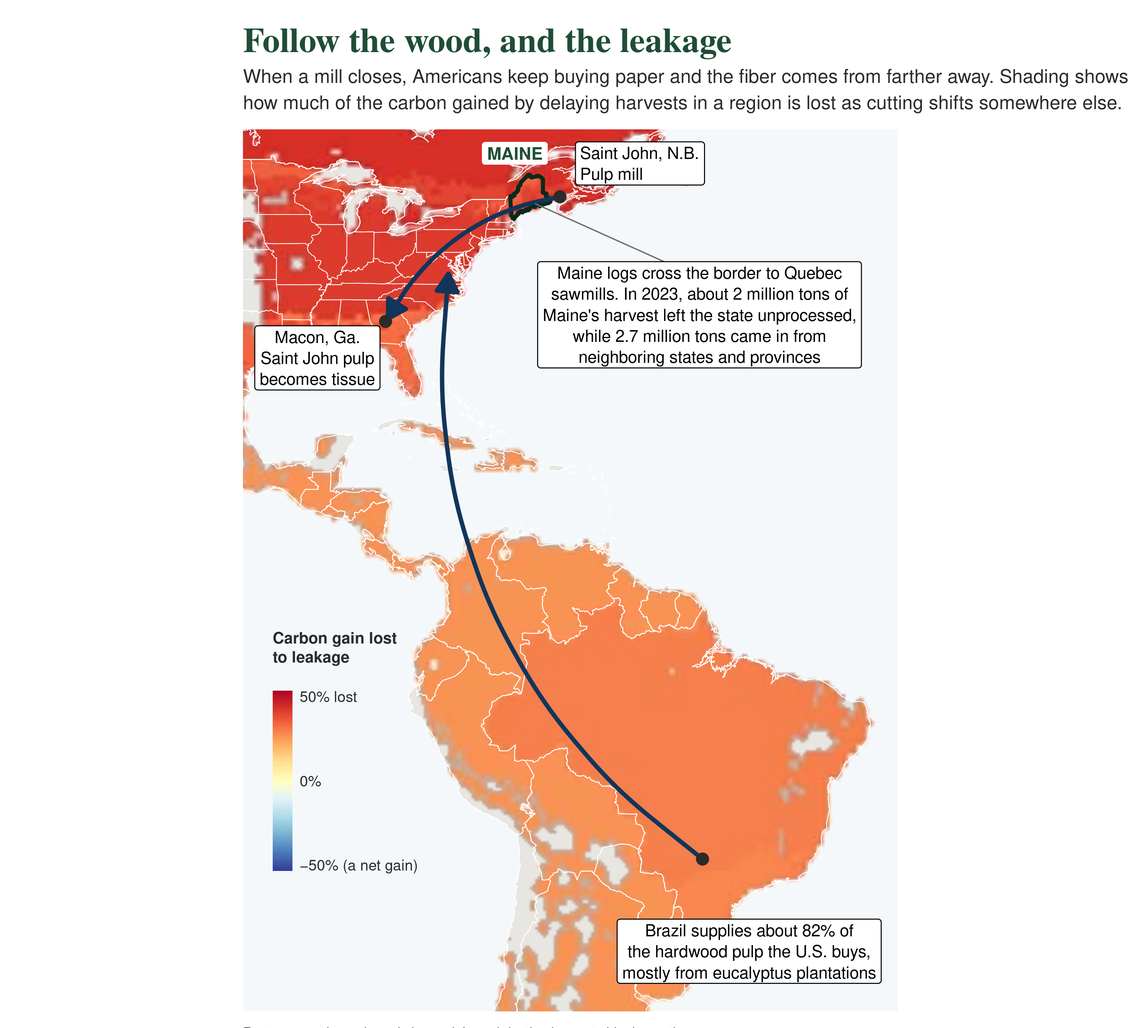
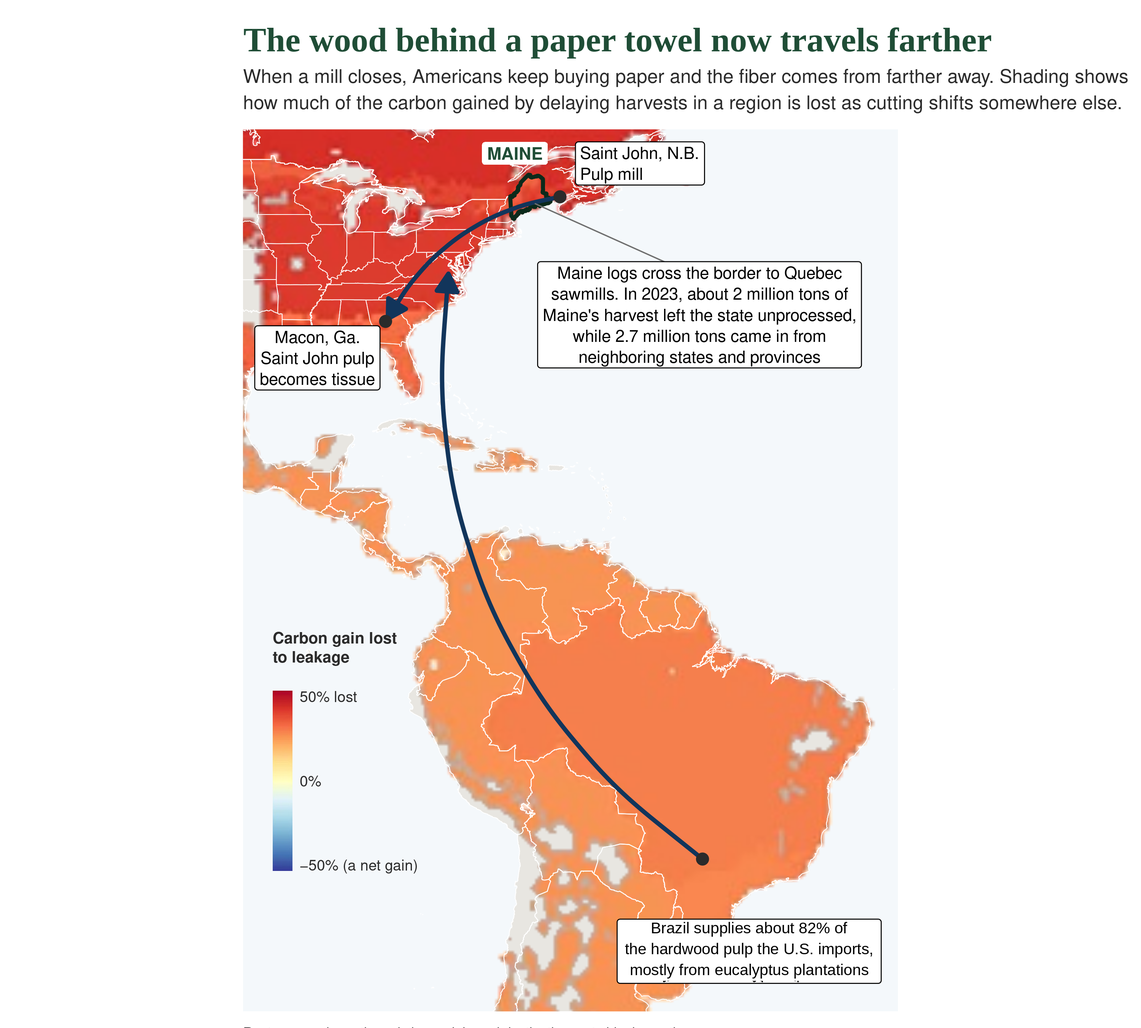
Graphics pass: world and U.S. export map rebuilt, headlines state findings, mill map decluttered
Claude-Session: https://claude.ai/code/session_013WsDVoeaXCGmdbNt2QvfhH

Changed region(s): [[0.217, 0.0311, 0.868, 0.0622], [0.558, 0.9012, 0.775, 0.9634]]

diff --git a/wood-travels/2026-11-11_maine-wood-exports-world-and-us-map_DRAFT.py b/wood-travels/2026-11-11_maine-wood-exports-world-and-us-map_DRAFT.py
@@ -1,0 +1,185 @@
+# Where Maine's wood goes: exports by country (2024) with an inset of net shipments to U.S. states (2022).
+# Rebuilt November 11, 2026, so the whole Southern Hemisphere shows and the U.S. inset sits on the same bubble scale.
+# Inputs (same folder):
+#   2024_maine-wood-exports-by-country_DATA.csv        U.S. Census Bureau, USA Trade Online, HS 44, 47, 48, origin Maine
+#   2022_maine-net-shipments-to-states-cfs_DATA.csv    2022 Commodity Flow Survey, SCTG 25 to 28, with coefficients of variation
+# Usage: python3 <script> <node_modules dir with world-atlas and us-atlas> <out.png>
+import csv, json, sys, math, os
+import numpy as np
+import matplotlib
+matplotlib.use("Agg")
+import matplotlib.pyplot as plt
+from matplotlib.patches import PathPatch, Circle
+from matplotlib.path import Path
+import matplotlib.patheffects as pe
+
+HERE = os.path.dirname(os.path.abspath(__file__))
+ATLAS, OUT = sys.argv[1], sys.argv[2]
+plt.rcParams["font.family"] = "Liberation Sans"
+GRN, NAV, ORG = "#1F4D36", "#2F6C9E", "#D9692E"
+LAND, SEA, INK, GRY = "#E8E6E1", "#FFFFFF", "#2B2B2B", "#6E6E6E"
+halo = [pe.withStroke(linewidth=2.6, foreground="white")]
+
+
+def topo(path, obj):
+    t = json.load(open(path))
+    sc, tr = t["transform"]["scale"], t["transform"]["translate"]
+    arcs = []
+    for a in t["arcs"]:
+        pts = np.cumsum(np.array(a, dtype=float), axis=0)
+        arcs.append(np.column_stack([pts[:, 0] * sc[0] + tr[0], pts[:, 1] * sc[1] + tr[1]]))
+    def ring(idx):
+        out = []
+        for i in idx:
+            seg = arcs[i] if i >= 0 else arcs[~i][::-1]
+            out.append(seg if not out else seg[1:])
+        return np.vstack(out)
+    res = {}
+    for g in t["objects"][obj]["geometries"]:
+        if g.get("type") is None:
+            continue
+        polys = g["arcs"] if g["type"] == "MultiPolygon" else [g["arcs"]]
+        res[g["properties"]["name"]] = [ring(r) for p in polys for r in p]
+    return res
+
+
+def centroid(rings):
+    """Area-weighted centroid of the largest ring, in lon/lat."""
+    best, ba = None, -1
+    for r in rings:
+        x, y = r[:, 0], r[:, 1]
+        a = 0.5 * np.sum(x[:-1] * y[1:] - x[1:] * y[:-1])
+        if abs(a) > ba and abs(a) > 0:
+            cx = np.sum((x[:-1] + x[1:]) * (x[:-1] * y[1:] - x[1:] * y[:-1])) / (6 * a)
+            cy = np.sum((y[:-1] + y[1:]) * (x[:-1] * y[1:] - x[1:] * y[:-1])) / (6 * a)
+            best, ba = (cx, cy), abs(a)
+    return best
+
+
+def equal_earth(lon, lat):
+    A1, A2, A3, A4 = 1.340264, -0.081106, 0.000893, 0.003796
+    th = np.arcsin(math.sqrt(3) / 2 * np.sin(np.radians(lat)))
+    x = 2 * math.sqrt(3) * np.radians(lon) * np.cos(th) / (3 * (9 * A4 * th**8 + 7 * A3 * th**6 + 3 * A2 * th**2 + A1))
+    y = A4 * th**9 + A3 * th**7 + A2 * th**3 + A1 * th
+    return x, y
+
+
+def albers(lon, lat, lat1=29.5, lat2=45.5, lat0=37.5, lon0=-96.0):
+    p1, p2, p0 = map(math.radians, (lat1, lat2, lat0))
+    n = (math.sin(p1) + math.sin(p2)) / 2
+    C = math.cos(p1) ** 2 + 2 * n * math.sin(p1)
+    rho0 = math.sqrt(C - 2 * n * math.sin(p0)) / n
+    rho = np.sqrt(C - 2 * n * np.sin(np.radians(lat))) / n
+    th = n * np.radians(lon - lon0)
+    return rho * np.sin(th), rho0 - rho * np.cos(th)
+
+
+def add_poly(ax, rings, proj, **kw):
+    verts, codes = [], []
+    for r in rings:
+        lon = r[:, 0].copy()
+        if lon.max() - lon.min() > 300:          # ring crosses the antimeridian: keep it on the eastern edge
+            lon[lon < 0] = 180.0
+        x, y = proj(lon, r[:, 1])
+        verts += list(zip(x, y))
+        codes += [Path.MOVETO] + [Path.LINETO] * (len(r) - 2) + [Path.CLOSEPOLY]
+    ax.add_patch(PathPatch(Path(verts, codes), **kw))
+
+
+K = 13 / math.sqrt(385.3)                      # bubble radius in points per sqrt($M); Canada is 13 pt
+def rad(v):
+    return K * math.sqrt(max(v, 0.05))
+def usd(v):
+    return f"\\${v / 1000:.1f}B" if v >= 1000 else f"\\${v:.0f}M"
+
+
+world = topo(f"{ATLAS}/world-atlas/countries-110m.json", "countries")
+states = topo(f"{ATLAS}/us-atlas/states-10m.json", "states")
+exp = [(r["country"], float(r["value_usd"]) / 1e6) for r in csv.DictReader(open(os.path.join(HERE, "2024_maine-wood-exports-by-country_DATA.csv")))]
+cfs = list(csv.DictReader(open(os.path.join(HERE, "2022_maine-net-shipments-to-states-cfs_DATA.csv"))))
+total_exp = 385.287058 / 0.6673                # total exports, from Canada's value and share in the source file
+net_pos = sum(float(r["net_musd"]) for r in cfs if float(r["net_musd"]) > 0)
+
+alias = {"Dominican Republic": "Dominican Rep.", "Korea, South": "South Korea"}
+fixed = {"Hong Kong": (114.17, 22.3), "Singapore": (103.8, 1.35), "Seychelles": (55.5, -4.7), "Canada": (-79.0, 53.0),
+         "Indonesia": (113.0, -1.0), "Chile": (-71.0, -33.0)}
+MAINE = (-69.2, 45.3)
+
+fig = plt.figure(figsize=(10, 8.6), dpi=300)
+fig.patch.set_facecolor("white")
+fig.text(0.04, 0.955, "Maine's wood mostly stays in the U.S., and most exports go to Canada", fontfamily="Liberation Serif",
+         fontweight="bold", fontsize=19.5, color=GRN, ha="left", va="center")
+fig.text(0.04, 0.917, f"Other states took at least {usd(net_pos)} more of Maine's wood, pulp, and paper than they sent back in 2022. "
+         f"Exports abroad were {usd(total_exp)} in 2024,\nand Canada took 67% of them. Circle area is the dollar value on one scale for both maps.",
+         fontsize=10.2, color=INK, ha="left", va="center", linespacing=1.3)
+
+# ---- world map ----
+ax = fig.add_axes([0.02, 0.36, 0.96, 0.52])
+ax.set_axis_off(); ax.set_aspect("equal")
+for name, rings in world.items():
+    if name == "Antarctica":
+        continue
+    add_poly(ax, rings, equal_earth, facecolor="#BFD3E3" if name == "United States of America" else LAND, edgecolor="white", linewidth=0.35, zorder=1)
+x0, _ = equal_earth(np.array([-170.0]), np.array([0.0])); x1, _ = equal_earth(np.array([180.0]), np.array([0.0]))
+_, y0 = equal_earth(np.array([0.0]), np.array([-58.0])); _, y1 = equal_earth(np.array([0.0]), np.array([80.0]))
+ax.set_xlim(x0[0], x1[0]); ax.set_ylim(y0[0], y1[0])
+mx, my = equal_earth(np.array([MAINE[0]]), np.array([MAINE[1]]))
+pts = []
+for c, v in exp:
+    lon, lat = fixed.get(c) or centroid(world[alias.get(c, c)])
+    x, y = equal_earth(np.array([lon]), np.array([lat]))
+    pts.append((c, v, x[0], y[0]))
+lab = {"Canada": (-16, 12, "right"), "China": (9, -9, "left"), "Belgium": (-7, 9, "right"), "Italy": (8, -8, "left"),
+       "Germany": (7, 9, "left"), "Mexico": (-8, -2, "right"), "Costa Rica": (-6, -6, "right"), "Brazil": (6, -5, "left"),
+       "Colombia": (6, 0, "left"), "Dominican Republic": (7, 5, "left"), "Uzbekistan": (0, 8, "center"), "Indonesia": (0, -9, "center")}
+for c, v, x, y in sorted(pts, key=lambda p: -p[1]):
+    if c in lab:
+        ax.plot([mx[0], x], [my[0], y], color=ORG, lw=0.5 + 2.2 * math.sqrt(v / 385.3), alpha=0.35, zorder=2, solid_capstyle="round")
+    ax.scatter([x], [y], s=(2 * rad(v)) ** 2, c=ORG, edgecolors="white", linewidths=0.6, zorder=3, alpha=0.93)
+    if c in lab:
+        dx, dy, ha = lab[c]
+        ax.annotate(f"{c} {usd(v)}", (x, y), xytext=(dx, dy), textcoords="offset points", ha=ha, va="center", fontsize=8.8, fontweight="bold", color=INK, path_effects=halo, zorder=5)
+ax.scatter(mx, my, s=42, c=GRN, edgecolors="white", linewidths=1.0, zorder=6)
+ax.text(mx[0] + 0.08, my[0] - 0.02, "MAINE", ha="left", va="center", fontsize=9.2, fontweight="bold", color=GRN, path_effects=halo, zorder=6)
+ax.text(0.0, 0.30, "EXPORTS BY COUNTRY, 2024", transform=ax.transAxes, ha="left", va="bottom", fontsize=9.6, fontweight="bold", color=INK)
+
+# ---- U.S. inset ----
+bx = fig.add_axes([0.03, 0.035, 0.56, 0.315])
+bx.set_axis_off(); bx.set_aspect("equal")
+skip = {"Alaska", "Hawaii", "Puerto Rico", "Guam", "American Samoa", "United States Virgin Islands", "Commonwealth of the Northern Mariana Islands"}
+for name, rings in states.items():
+    if name in skip:
+        continue
+    add_poly(bx, rings, albers, facecolor="#BFD3E3" if name == "Maine" else LAND, edgecolor="white", linewidth=0.45, zorder=1)
+bx.set_xlim(-0.40, 0.42); bx.set_ylim(-0.235, 0.25)
+slab = {"New York": (-4, 22, "right"), "Indiana": (-10, -12, "right"), "North Carolina": (11, -9, "left"),
+        "Wisconsin": (-12, 9, "right"), "Georgia": (9, -9, "left"), "Texas": (0, -11, "center"), "New Hampshire": (14, 10, "left"), "Massachusetts": (13, -3, "left")}
+for r in sorted(cfs, key=lambda r: -abs(float(r["net_musd"]))):
+    net, low = float(r["net_musd"]), r["low_confidence"] == "TRUE"
+    lon, lat = centroid(states[r["state"]])
+    x, y = albers(np.array([lon]), np.array([lat]))
+    col = ORG if net > 0 else NAV
+    bx.scatter(x, y, s=(2 * rad(abs(net))) ** 2, facecolors="white" if low else col, edgecolors=col, linewidths=1.5 if low else 0.6, zorder=3, alpha=0.93)
+    if r["state"] in slab:
+        dx, dy, ha = slab[r["state"]]
+        txt = f"{r['state']} {usd(net)}" if net > 0 else f"{r['state']} sends Maine {usd(-net)} more"
+        bx.annotate(txt, (x[0], y[0]), xytext=(dx, dy), textcoords="offset points", ha=ha, va="center", fontsize=8.4, fontweight="bold", color=INK, path_effects=halo, zorder=5)
+fig.text(0.04, 0.345, "NET SHIPMENTS TO OTHER STATES, 2022", ha="left", va="center", fontsize=9.6, fontweight="bold", color=INK)
+
+# ---- key and notes ----
+kx = fig.add_axes([0.60, 0.035, 0.38, 0.315]); kx.set_axis_off(); kx.set_xlim(0, 1); kx.set_ylim(0, 1)
+kx.text(0.0, 0.93, "HOW TO READ IT", fontsize=9.6, fontweight="bold", color=INK, va="center")
+xs = [0.07, 0.22, 0.44, 0.76]
+for xk, v in zip(xs, (5, 50, 385, 1265)):
+    kx.scatter([xk], [0.70], s=(2 * rad(v)) ** 2, c=ORG, edgecolors="white", linewidths=0.6, clip_on=False)
+    kx.text(xk, 0.47, usd(v), ha="center", va="center", fontsize=9.2, fontweight="bold", color=INK)
+notes = [(ORG, True, "takes more from Maine than it sends"), (NAV, True, "sends Maine more than it takes"),
+         (ORG, False, "open circle: survey uncertainty above 30%")]
+for i, (col, filled, t) in enumerate(notes):
+    yk = 0.30 - 0.075 * i
+    kx.scatter([0.03], [yk], s=42, facecolors=col if filled else "white", edgecolors=col, linewidths=1.4, clip_on=False)
+    kx.text(0.075, yk, t, fontsize=8.8, color=INK, va="center")
+kx.text(0.0, -0.02, "State figures are floors because the survey\nwithholds some cells.", fontsize=8.4, color=GRY, va="bottom", linespacing=1.25)
+
+fig.savefig(OUT, dpi=300, facecolor="white")
+print("saved", OUT, round(net_pos), round(total_exp))

diff --git a/wood-travels/2026-11-10_maine-mill-towns-quebec-mills-map_DRAFT.py b/wood-travels/2026-11-10_maine-mill-towns-quebec-mills-map_DRAFT.py
@@ -80,7 +80,7 @@ for gid, rings in canada + states:
     if pt is not None:
         ax.add_patch(pt)
 forest = np.asarray(Image.open(os.path.join(HERE, "2020_cec-land-cover-forest-layer_DATA.png")).convert("RGBA")) / 255.0
-ax.imshow(forest, extent=(X0, X1, Y0, Y1), zorder=2, interpolation="bilinear", aspect="auto")
+ax.imshow(forest, extent=(X0, X1, Y0, Y1), zorder=2, interpolation="bilinear", aspect="auto", alpha=0.62)
 for gid, rings in canada + states:
     pt = patch(rings, facecolor="none", edgecolor="white", linewidth=0.7, zorder=3)
     if pt is not None:
@@ -113,8 +113,8 @@ for nm, pts in rd.items():
     pts.sort()
     ax.plot([p[2] for p in pts], [p[3] for p in pts], color="white", lw=3.6, zorder=5, solid_capstyle="round")
     ax.plot([p[2] for p in pts], [p[3] for p in pts], color=GOLD, lw=2.0, zorder=5.1, solid_capstyle="round")
-ax.text(-69.72, 45.80, "Golden Road", ha="center", va="center", fontsize=7.8, color="#7A5A00", fontstyle="italic", fontweight="bold", rotation=-6, path_effects=halo, zorder=9)
-ax.text(-68.22, 45.11, "Stud Mill Road", ha="center", va="center", fontsize=7.8, color="#7A5A00", fontstyle="italic", fontweight="bold", path_effects=halo, zorder=9)
+ax.text(-69.72, 45.80, "Golden Road", ha="center", va="center", fontsize=8.8, color="#7A5A00", fontstyle="italic", fontweight="bold", rotation=-6, path_effects=halo, zorder=9)
+ax.text(-68.22, 45.11, "Stud Mill Road", ha="center", va="center", fontsize=8.8, color="#7A5A00", fontstyle="italic", fontweight="bold", path_effects=halo, zorder=9)
 
 # Logs cross to Quebec sawmills and lumber comes back to U.S. buyers (schematic)
 from matplotlib.patches import FancyArrowPatch
@@ -124,15 +124,16 @@ from matplotlib.patches import FancyArrowPatch
 # Earlier note: arrow width followed the Maine Forest Service 2023 Wood Processor Report: 2.0 million green tons of Maine wood left the state
 # unprocessed and 2.7 million green tons came in from other states and provinces. Statistics Canada adds about 0.8 million tons
 # of lumber, pulp, and paper sent from Canada to Maine (2023_maine-canada-wood-trade-statcan_DATA.csv), named in the label only.
-for (x0, y0, x1, y1, rad, txt, tx, ty, mt) in ((-69.05, 46.86, -69.98, 46.86, 0.12, "Out of Maine\n2.0 million tons raw wood\n0.2 million tons products", -69.28, 47.07, 2.2),
-                                              (-70.10, 46.50, -69.20, 46.50, 0.12, "Into Maine\n2.7 million tons raw wood\n0.8 million tons products", -70.00, 46.23, 3.5)):
+for (x0, y0, x1, y1, rad, txt, tx, ty, mt) in ((-69.05, 46.86, -69.98, 46.86, 0.12, "out", -69.30, 47.01, 2.2),
+                                              (-70.10, 46.50, -69.20, 46.50, 0.12, "in", -69.75, 46.33, 3.5)):
     lw = 1.5 * mt
     ax.add_patch(FancyArrowPatch((x0, y0), (x1, y1), connectionstyle=f"arc3,rad={rad}", arrowstyle="-|>", mutation_scale=8 + 4 * mt, lw=lw + 2.0, color="white", zorder=6.4))
     ax.add_patch(FancyArrowPatch((x0, y0), (x1, y1), connectionstyle=f"arc3,rad={rad}", arrowstyle="-|>", mutation_scale=6 + 4 * mt, lw=lw, color=BRN, zorder=6.5))
-    ax.text(tx, ty, txt, ha="left", va="center", fontsize=7.6, color=BRN, fontweight="bold", linespacing=1.1, path_effects=halo, zorder=9)
-# Canada's public investment note
-ax.text(-73.3, 46.47, "Canada has committed more than\nC$2 billion to its forest sector since\nAugust 2025 and added C$400 million\nmore in June 2026", ha="left", va="center",
-        fontsize=8.2, color=INK, linespacing=1.2, zorder=9, bbox=dict(boxstyle="round,pad=0.35", fc="white", ec=INK, lw=0.6))
+    ax.text(tx, ty, txt, ha="center", va="center", fontsize=9.2, color=BRN, fontweight="bold", path_effects=halo, zorder=9)
+ax.text(-73.3, 46.66, "Wood across Maine's borders, 2023", ha="left", va="center", fontsize=9.2, color=BRN, fontweight="bold", path_effects=halo, zorder=9)
+ax.text(-73.3, 46.38, "Out: 2.0 million tons raw wood (all neighbors)\n        0.2 million tons products (to Canada)\nIn:   2.7 million tons raw wood (all neighbors)\n        0.8 million tons products (from Canada)",
+        ha="left", va="center", fontsize=8.8, color=BRN, linespacing=1.3, path_effects=halo, zorder=9)
+# Canada's funding note moved to the caption on November 11, 2026
 
 # Maine and New Brunswick sawmills from public directories (town-level placement, not sized)
 PUR = "#7B4BA3"
@@ -149,7 +150,7 @@ ax.scatter([float(r["longitude"]) for r in known], [float(r["latitude"]) for r i
 closed = [  # town label, lon, lat, label lon, label lat
     ("Millinocket\nclosed 2008; biofuel\nplant planned", -68.710, 45.657, -69.92, 45.37),
     ("East Millinocket\nclosed 2014", -68.574, 45.627, -68.03, 46.19),
-    ("Bucksport\nclosed 2014", -68.795, 44.574, -68.47, 43.93),
+    ("Bucksport\nclosed 2014", -68.795, 44.574, -68.64, 43.94),
     ("Lincoln\nclosed 2015", -68.505, 45.362, -66.42, 45.80),
     ("Old Town\nclosed 2015, reopened,\nclosed again 2023", -68.645, 44.934, -66.72, 44.42),
     ("Madison\nclosed 2016; TimberHP now\nmakes insulation there", -69.880, 44.798, -72.47, 44.83),
@@ -174,7 +175,7 @@ box = dict(boxstyle="round,pad=0.32,rounding_size=0.18", fc="white", ec=INK, lw=
 
 
 def label(txt, x, y, lx, ly):
-    ax.annotate(txt, xy=(x, y), xytext=(lx, ly), ha="center", va="center", fontsize=8.6, color=INK, linespacing=1.12,
+    ax.annotate(txt, xy=(x, y), xytext=(lx, ly), ha="center", va="center", fontsize=9.2, color=INK, linespacing=1.12,
                 bbox=box, zorder=9, arrowprops=dict(arrowstyle="-", color=GRY, lw=0.9, shrinkA=0, shrinkB=5))
 
 
@@ -190,33 +191,32 @@ ax.scatter([p[2] for p in pulp], [p[3] for p in pulp], marker="s", s=120, c=ORG,
 ax.scatter([p[2] for p in paper], [p[3] for p in paper], marker="s", s=120, c=ORG, edgecolors="white", linewidths=0.9, zorder=8)
 halo = [pe.withStroke(linewidth=2.6, foreground="white")]
 for n, note, x, y, dx, dy, ha in pulp + paper:
-    ax.text(x + dx, y + dy + 0.045, n, ha=ha, va="center", fontsize=8.4, color=INK, fontweight="bold", path_effects=halo, zorder=9)
-    ax.text(x + dx, y + dy - 0.045, note, ha=ha, va="center", fontsize=7.8, color=INK, path_effects=halo, zorder=9)
+    ax.text(x + dx, y + dy + 0.05, n, ha=ha, va="center", fontsize=9.2, color=INK, fontweight="bold", path_effects=halo, zorder=9)
+    ax.text(x + dx, y + dy - 0.05, note, ha=ha, va="center", fontsize=8.6, color=INK, path_effects=halo, zorder=9)
 
 ax.text(-73.3, 47.25, f"Quebec: {len(q)} wood mills operate within\n30 miles of Maine, {len(saw)} of them sawmills", ha="left", va="center",
         fontsize=9.8, color=NAV, fontweight="bold", linespacing=1.15, zorder=9,
         bbox=dict(boxstyle="round,pad=0.35,rounding_size=0.18", fc="white", ec="none"))
 
-ax.text(-73.3, 46.99, "Dot size follows wood volume: Quebec by permit class,\nMaine and New Brunswick approximate, in three classes", ha="left", va="center", linespacing=1.15, fontsize=7.8, color=NAV,
-        path_effects=halo, zorder=9)
+ax.text(-73.3, 47.02, "Mill size, approximate", ha="left", va="center", fontsize=8.8, color=NAV, fontweight="bold", path_effects=halo, zorder=9)
+for kxx, cls, lab_ in ((-73.22, "small", "small"), (-72.55, "medium", "medium"), (-71.75, "large", "large")):
+    ax.scatter([kxx], [46.86], s=MS[cls], c=NAV, edgecolors="white", linewidths=0.6, zorder=9)
+    ax.text(kxx + 0.11 + 0.02 * (cls != "small"), 46.86, lab_, ha="left", va="center", fontsize=8.6, color=NAV, path_effects=halo, zorder=9)
 
 
 # ownership box
-ax.add_patch(FancyBboxPatch((-70.10, 42.99), 2.16, 0.53, boxstyle="round,pad=0,rounding_size=0.05", fc="white", ec=INK, lw=0.7, zorder=10))
-ax.text(-70.00, 43.435, "Who owns the forest", ha="left", va="center", fontsize=9.8, color=GRN, fontweight="bold", zorder=11)
-ax.text(-70.00, 43.355, "Maine: 92% private\nQuebec: 92% public overall\nNew Brunswick: 51% public", ha="left", va="top",
-        fontsize=9.0, color=INK, linespacing=1.25, zorder=11)
+# Ownership box moved to the caption on November 11, 2026
 
 handles = [
     Line2D([], [], marker="x", color="none", markeredgecolor=RED, markersize=9, markeredgewidth=2.6, label="Pulp or paper mill closed or idled"),
     Line2D([], [], marker="s", color="none", markerfacecolor=ORG, markeredgecolor="white", markersize=9, label="Pulp or paper mill still operating"),
     Line2D([], [], marker="o", color="none", markerfacecolor=NAV, markeredgecolor="white", markersize=8, label="Sawmill or other wood mill"),
-    Line2D([], [], marker=r"$\rightarrow$", color="none", markerfacecolor=BRN, markeredgecolor=BRN, markersize=13, label="Wood and products trade, 2023"),
+    Line2D([], [], marker=r"$\rightarrow$", color="none", markerfacecolor=BRN, markeredgecolor=BRN, markersize=13, label="Wood and products trade"),
     Line2D([], [], color=GOLD, lw=2.0, label="Private logging road"),
     Line2D([], [], marker="^", color="none", markerfacecolor=GRN, markeredgecolor="white", markersize=9, label="New use for wood"),
     Line2D([], [], marker="s", color="none", markerfacecolor="#96C4A0", markeredgecolor="none", markersize=10, label="Forest"),
 ]
-leg = ax.legend(handles=handles, loc="lower right", bbox_to_anchor=(0.995, 0.012), fontsize=8.4, frameon=True, framealpha=1,
+leg = ax.legend(handles=handles, loc="lower right", bbox_to_anchor=(0.995, 0.012), fontsize=9.2, frameon=True, framealpha=1,
                 edgecolor=INK, fancybox=True, borderpad=0.7, labelspacing=0.55, handletextpad=0.5)
 leg.get_frame().set_linewidth(0.7); leg.set_zorder(12)
 

diff --git a/wood-travels/2026-11-11_patch-headlines_DRAFT.py b/wood-travels/2026-11-11_patch-headlines_DRAFT.py
@@ -1,0 +1,60 @@
+# Patches headlines on two finished graphics whose source scripts run in R on another machine (November 11, 2026).
+# 1. Leakage map: headline states the finding; Brazil callout says "imports" to match the source and the article.
+# 2. How Maine's trees are used: headline states the finding; three-sentence deck cut to one.
+# Usage: python3 <script>   (reads and writes PNGs in this folder; the unpatched files stay in git history)
+import os
+import numpy as np
+from PIL import Image, ImageDraw, ImageFont
+HERE = os.path.dirname(os.path.abspath(__file__))
+SERIF_B = "/usr/share/fonts/truetype/liberation/LiberationSerif-Bold.ttf"
+SANS = "/usr/share/fonts/truetype/liberation/LiberationSans-Regular.ttf"
+
+
+def fit(path, text, width):
+    """Font size at which `text` is `width` pixels wide."""
+    s = 20
+    while ImageFont.truetype(path, s + 1).getlength(text) <= width:
+        s += 1
+    return s
+
+
+# ---- 1. leakage map ----
+p = os.path.join(HERE, "2026-11-10_follow-the-wood-leakage-map-nofooter_DRAFT.png")
+im = Image.open(p).convert("RGB"); d = ImageDraw.Draw(im)
+size = fit(SERIF_B, "Follow the wood, and the leakage", 1281)
+d.rectangle([600, 40, 2999, 168], fill=(255, 255, 255))
+f = ImageFont.truetype(SERIF_B, size)
+d.text((640, 135), "The wood behind a paper towel now travels farther", font=f, fill=(31, 77, 54), anchor="ls")
+# Brazil callout: find the box interior from its black border, clear it, and redraw three centered lines
+arr = np.array(im)[2380:2620, 1560:2380].astype(int)
+dark = (arr.sum(axis=2) < 120)
+rows = np.where(dark.sum(axis=1) > 400)[0]; cols = np.where(dark.sum(axis=0) > 100)[0]
+top, bot, left, right = rows.min() + 2380, rows.max() + 2380, cols.min() + 1560, cols.max() + 1560
+d.rectangle([left + 8, top + 8, right - 8, bot - 8], fill=(255, 255, 255))
+lines = ["Brazil supplies about 82% of", "the hardwood pulp the U.S. imports,", "mostly from eucalyptus plantations"]
+fs = fit(SANS, "mostly from eucalyptus plantations", 663)
+while ImageFont.truetype(SANS, fs).getlength(lines[1]) > (right - left - 40):
+    fs -= 1
+fb = ImageFont.truetype(SANS, fs)
+cy = (top + bot) / 2 - 7
+for i, t in enumerate(lines):
+    d.text(((left + right) / 2, cy + (i - 1) * 55), t, font=fb, fill=(0, 0, 0), anchor="mm")
+im.save(p)
+
+# ---- 2. how Maine's trees are used ----
+p = os.path.join(HERE, "2023_how-maines-trees-are-used-nofooter_DATA.png")
+im = Image.open(p).convert("RGB"); d = ImageDraw.Draw(im)
+assert im.size[1] == 2000, "already patched"
+bg = im.getpixel((20, 20))
+size = fit(SERIF_B, "How Maine's trees are used", 1262)
+dsize = fit(SANS, "to 44%.", 176)
+d.rectangle([60, 30, 3899, 365], fill=bg)
+d.text((104, 132), "A fifth of Maine's harvest leaves the state as raw wood", font=ImageFont.truetype(SERIF_B, size), fill=(22, 59, 39), anchor="ls")
+d.text((105, 215), "Maine landowners harvested 10.0 million green tons of wood in 2023, and pulpwood's share has fallen from 57% to 44% since 2011.",
+       font=ImageFont.truetype(SANS, dsize), fill=(60, 70, 65), anchor="ls")
+# close the gap left by the shorter deck
+arr = np.array(im); gap = 110
+arr[250:-gap] = arr[250 + gap:]
+im = Image.fromarray(arr[:-gap])
+im.save(p)
+print("patched")

diff --git a/wood-travels/README.md b/wood-travels/README.md
@@ -42,3 +42,9 @@ Note (November 10, 2026, final pass): the mill map now shows all five Maine mill
 - Trade arrows, November 11, 2026: arrows now show 2023 Maine and Canada trade from Statistics Canada's Canadian International Merchandise Trade database (`2023_maine-canada-wood-trade-statcan_DATA.csv`; REST calls of the form https://www150.statcan.gc.ca/t1/cimt/rest/getReport/(1)/9/19/{44|47|48}/0/150000/{0 exports|1 imports}/1/2023-01-01/2023-12-01, where 19 is Maine). Maine sent Canada 1.59 million cubic meters of logs and 0.43 million metric tons of chips and fuelwood, and received 0.78 million cubic meters of lumber, 0.38 million tons of pulp, and 0.06 million tons of paper. Arrow widths use approximate weights (about 1 ton per cubic meter of green logs and 0.5 per cubic meter of lumber). A note gives Canada's June 3, 2026 federal forest sector funding (Natural Resources Canada).
 - Final, November 11, 2026: at Aaron's direction the arrows follow the Maine Forest Service 2023 Wood Processor Report (2.0 million green tons of Maine wood exported unprocessed; 2.7 million green tons imported from other states and provinces). The Statistics Canada file is kept for the lumber, pulp, and paper flows cited in the caption. The funding note now reads more than C$2 billion since August 2025 plus C$400 million added June 3, 2026, the two figures the federal release states as distinct.
 - Arrows, last revision November 11, 2026: each arrow now carries raw wood plus products. Raw wood is from the Maine Forest Service 2023 Wood Processor Report (2.0 million green tons out, 2.7 million in, all states and provinces). Products are lumber, pulp, and paper traded with Canada from Statistics Canada (about 0.2 million tons to Canada, 0.8 million to Maine, lumber converted at about 0.5 ton per cubic meter). U.S. Census trade data were not used because no tonnage was available.
+
+## 2026-11-11 graphics pass after the NYT-style assessment
+
+- `2026-11-11_maine-wood-exports-world-and-us-map_DRAFT.py/.png` replaces the dashboard world map in the article. It shows the whole Southern Hemisphere, adds an inset of net shipments from Maine to other states (2022 Commodity Flow Survey, `2022_maine-net-shipments-to-states-cfs_DATA.csv`, open circles where the survey coefficient of variation is above 30%), and puts both maps on one bubble scale. Exports by country are in `2024_maine-wood-exports-by-country_DATA.csv` (U.S. Census Bureau, USA Trade Online). Both data files came from Aaron's September 2026 infographic folder.
+- `2026-11-11_patch-headlines_DRAFT.py` rewrites the headlines on the leakage map and the harvest chart so they state the finding, changes "buys" to "imports" in the Brazil callout, and cuts the harvest chart deck to one sentence. The unpatched images are in git history.
+- Mill map: forest fill lightened, type enlarged, a mill size key added, the ownership box and Canada funding note moved to the caption, and the trade figures set in a text block that names their coverage (raw wood with all neighbors, products with Canada).
